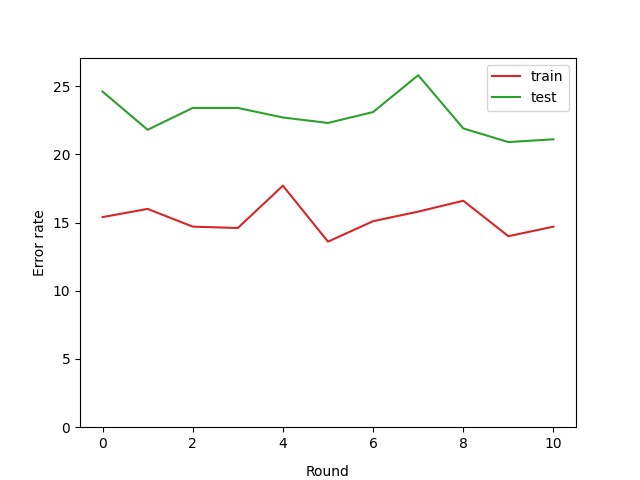
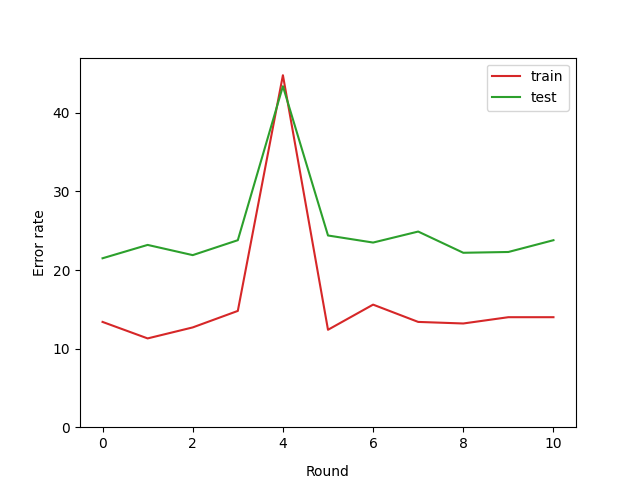
CNN_Aux

diff --git a/project1/models.py b/project1/models.py
@@ -38,33 +38,6 @@ class Baseline(Model):
         self.__init__(self.generate_data, self.epochs, self.batch_size, self.lr)
 
 
-# TODO make this work and compare
-# class Baseline2(Model):
-#     """ The Baseline model is composed only of fully-connected layers. """
-#
-#     def __init__(self, f_gen_data, nb_epochs=25, mini_batch_size=50, learning_rate=1e-3):
-#         super().__init__(f_gen_data, nb_epochs, mini_batch_size, learning_rate)
-#
-#         self.fc1 = nn.Linear(392, 200)
-#         self.bn1 = nn.BatchNorm1d(200)
-#         self.fc2 = nn.Linear(200, 100)
-#         self.bn2 = nn.BatchNorm1d(100)
-#         self.fc3 = nn.Linear(100, 10)
-#         self.fc4 = nn.Linear(10, 2)
-#
-#     def forward(self, x):
-#         x = F.max_pool1d(x, kernel_size=2)
-#         x = F.relu(self.bn1(self.fc1(x.view(x.size()[0], -1))))
-#         x = F.relu(self.bn2(self.fc2(x)))
-#
-#         x = F.relu(self.fc3(x))
-#         x = F.relu(self.fc4(x))
-#         return x
-#
-#     def reset(self):
-#         self.__init__(self.generate_data, self.epochs, self.batch_size, self.lr)
-
-
 class Auxiliary(Model):
     """ This model extends the baseline model by adding auxiliary loss """
 
@@ -121,29 +94,35 @@ class CNN(Model):
         # 5th layer : fully-connected
         self.fc1 = nn.Linear(144, 100)
 
-        # 6th layer : fully-connected
+        # 6th layer : fully-connected (digit classification)
         self.fc2 = nn.Linear(100, 10)
 
-        # 7th layer : fully-connected
+        # 7th layer : fully-connected (digit comparison)
         self.fc3 = nn.Linear(10, 2)
 
     def forward(self, x):
-        # print(sum(p.numel() for p in self.parameters() if p.requires_grad))
+        # layer 1
         x = F.max_pool2d(F.relu(self.bn1(self.conv1(x))), kernel_size=3)
         x = self.drop1(x)
 
+        # layer 2
         x = F.max_pool2d(F.relu(self.bn2(self.conv2(x))), kernel_size=2)
         x = self.drop2(x)
 
+        # layer 3
         x = F.max_pool2d(F.relu(self.bn3(self.conv3(x))), kernel_size=2)
         x = self.drop3(x)
 
+        # layer 4
         x = F.max_pool2d(F.relu(self.bn4(self.conv4(x))), kernel_size=2)
 
+        # layer 5
         x = F.relu(self.fc1(x.view(x.size()[0], -1)))
 
+        # layer 6 : digit classification
         x = F.relu(self.fc2(x))
 
+        # layer 7 : digit comparison
         x = self.fc3(x)
         return x
 
@@ -152,7 +131,7 @@ class CNN(Model):
 
 
 class CNN_Auxiliary(Model):
-    """ This model implements weight sharing """
+    """ This model implements weight sharing uses auxiliary loss """
 
     def __init__(self, f_gen_data, nb_epochs=25, mini_batch_size=100, learning_rate=1e-3):
         super().__init__(f_gen_data, nb_epochs, mini_batch_size, learning_rate)
@@ -160,54 +139,63 @@ class CNN_Auxiliary(Model):
         # tell parent class we use auxiliary loss
         self.useAuxiliary = True
 
-        self.conv1 = nn.Conv2d(1, 32, kernel_size=5)
-        self.bn1 = nn.BatchNorm2d(32)
+        # 1st layer : convolutional
+        self.conv1 = nn.Conv2d(1, 16, kernel_size=5, padding=2)
+        self.bn1 = nn.BatchNorm2d(16)
+        self.drop1 = nn.Dropout(0.2)
 
-        self.conv2 = nn.Conv2d(32, 16, kernel_size=5)
-        self.bn2 = nn.BatchNorm2d(16)
+        # 2nd layer : convolutional
+        self.conv2 = nn.Conv2d(16, 64, kernel_size=3, padding=3)
+        self.bn2 = nn.BatchNorm2d(64)
+        self.drop2 = nn.Dropout(0.1)
 
-        self.fc1 = nn.Linear(576, 200)
-        self.fc2 = nn.Linear(200, 10)
-        self.fc3 = nn.Linear(10, 2)
+        # 3rd layer : convolutional
+        self.conv3 = nn.Conv2d(64, 32, kernel_size=3, padding=3)
+        self.bn3 = nn.BatchNorm2d(32)
+        self.drop3 = nn.Dropout(0.5)
+
+        # 4th layer : convolutional
+        self.conv4 = nn.Conv2d(32, 16, kernel_size=5, padding=3)
+        self.bn4 = nn.BatchNorm2d(16)
+
+        # 5th layer : fully-connected
+        self.fc1 = nn.Linear(144, 100)
+
+        # 6th layer : fully-connected (digit classification)
+        self.fc2 = nn.Linear(100, 10)
+
+        # 7th layer : fully-connected (digit comparison)
+        self.fc3 = nn.Linear(20, 2)
 
     def forward(self, x):
-        x = self.conv1(x)
-        x = F.relu(self.bn1(x))
-        x = self.conv2(x)
-        x = F.relu(self.bn2(x))
-        x = x.view(x.size()[0], -1)
-        x = F.relu(self.fc1(x))
-        digit_class = self.fc2(x)
 
+        # layer 1
+        x = F.max_pool2d(F.relu(self.bn1(self.conv1(x))), kernel_size=3)
+        x = self.drop1(x)
+
+        # layer 2
+        x = F.max_pool2d(F.relu(self.bn2(self.conv2(x))), kernel_size=2)
+        x = self.drop2(x)
+
+        # layer 3
+        x = F.max_pool2d(F.relu(self.bn3(self.conv3(x))), kernel_size=2)
+        x = self.drop3(x)
+
+        # layer 4
+        x = F.max_pool2d(F.relu(self.bn4(self.conv4(x))), kernel_size=2)
+
+        # layer 5
+        x = F.relu(self.fc1(x.view(x.size()[0], -1)))
+
+        # layer 6 : digit classification
+        digit_class = F.relu(self.fc2(x))
         x = F.relu(digit_class)
-        x = F.relu(self.fc3(x))
-        final_class = x.view(x.size()[0] // 2, -1)
 
+        # layer 7 : digit comparison
+        # print(x.size())
+        # print(x.view(x.size()[0] // 2, -1).size())
+        final_class = self.fc3(x.view(x.size()[0] // 2, -1))
         return digit_class, final_class
-
-    def _train(self, train_input, train_target, train_classes):
-        criterion = nn.CrossEntropyLoss()
-        optimizer = optim.SGD(self.parameters(), self.lr)
-
-        losses = []
-
-        for e in range(self.epochs):
-            for b in range(0, train_input.size(0), self.batch_size):
-                digit_class, final_class = self(train_input.narrow(0, b, self.batch_size))
-
-                regLoss = criterion(final_class,
-                                    train_target.narrow(0, b // 2, self.batch_size // 2))
-
-                auxLoss = criterion(digit_class, train_classes.narrow(0, b, self.batch_size))
-                loss = regLoss + auxLoss
-
-                self.zero_grad()
-                loss.backward()
-                optimizer.step()
-
-                losses.append(loss.data.item())
-
-        return losses
 
     def reset(self):
         self.__init__(self.generate_data, self.epochs, self.batch_size, self.lr)

diff --git a/project1/modelclass.py b/project1/modelclass.py
@@ -4,7 +4,6 @@ import torch
 from torch import nn
 from torch.nn import functional as F
 from torch import optim
-from dlc_practical_prologue import *
 
 
 class Model(nn.Module):
@@ -70,8 +69,7 @@ class Model(nn.Module):
         train_input, train_target, train_classes, \
             test_input, test_target, test_classes = self.generate_data(self.sets_size)
 
-        train_input, test_input = standardize(train_input, test_input)
-
+        # one channel with the original channel's images in alternation
         if self.useAuxiliary:
             train_input = train_input.view(-1, 1, 14, 14)
             train_classes = train_classes.view(-1)
@@ -93,16 +91,21 @@ class Model(nn.Module):
 
         for e in range(self.epochs):
             for b in range(0, train_input.size(0), self.batch_size):
-
                 if self.useAuxiliary:
                     digit_class, final_class = self(train_input.narrow(0, b, self.batch_size))
-                    loss = criterion(
-                        final_class,
-                        train_target.narrow(0, b // 2, self.batch_size // 2)
-                    ) + criterion(
-                        digit_class,
-                        train_classes.narrow(0, b, self.batch_size)
-                    )
+                    # print(final_class.size(), " ", train_target.narrow(0, b // 2, self.batch_size // 2).size(), "\n")
+                    loss = \
+                        criterion(
+                            # loss for digit classification
+                            digit_class,
+                            train_classes.narrow(0, b, self.batch_size)
+                        ) + criterion(
+                            # loss for comparison
+                            final_class,
+                            # need to divide by two, because one iteration in the network does
+                            # two times less comparisons (single channel)
+                            train_target.narrow(0, b // 2, self.batch_size // 2)
+                        )
 
                 else:
                     final_class = self(train_input.narrow(0, b, self.batch_size))

diff --git a/project1/test.py b/project1/test.py
@@ -27,29 +27,33 @@ def train_and_test_rounds(model, nb_rounds, test_id):
         trains_err_rate, tests_err_rate, losses_ = model.train_and_test()
         trains_err_rates.append(trains_err_rate)
         tests_err_rates.append(tests_err_rate)
-        if i == 0:
-            losses += losses_
+        losses.append(losses_)
 
+    # loss_it = len(losses[0])
+    # loss_avg = []
+    # for i in range(loss_it):
+    #     loss_avg.append(mean(list(map(lambda ls: ls[i], losses))))
     return ModelResult(test_id, trains_err_rates, tests_err_rates, losses)
 
 
 def main():
-    number_rounds = 10
+    number_rounds = 1
 
-    model1 = Baseline(generate_pair_sets)
-    mRes1 = train_and_test_rounds(model1, number_rounds, "Baseline")
+    # model1 = Baseline(generate_pair_sets)
+    # mRes1 = train_and_test_rounds(model1, number_rounds, "Baseline")
 
-    model2 = Auxiliary(generate_pair_sets)
-    mRes2 = train_and_test_rounds(model2, number_rounds, "Auxiliary")
+    # model2 = Auxiliary(generate_pair_sets)
+    # mRes2 = train_and_test_rounds(model2, number_rounds, "Auxiliary")
 
-    model3 = CNN(generate_pair_sets)
-    mRes3 = train_and_test_rounds(model3, number_rounds, "CNN")
+    # model3 = CNN(generate_pair_sets)
+    # mRes3 = train_and_test_rounds(model3, number_rounds, "CNN")
 
     model4 = CNN_Auxiliary(generate_pair_sets)
     mRes4 = train_and_test_rounds(model4, number_rounds, "CNN_Aux")
 
-    plot_model_result(mRes3, number_rounds)
-    plot_models_results_comparison([mRes1, mRes2, mRes3, mRes4], number_rounds, True)
+    plot_model_result(mRes4, number_rounds)
+    plot_models_results_comparison([mRes4], number_rounds, True)
+    # plot_models_results_comparison([mRes1, mRes2, mRes3, mRes4], number_rounds, True)
 
 
 if __name__ == '__main__':

diff --git a/project1/plot.py b/project1/plot.py
@@ -4,6 +4,8 @@ import matplotlib.pyplot as plt
 
 
 class ModelResult:
+    """ Encapsulates the the different error rates and losses of a model """
+
     def __init__(self, result_id, train_err_rates, test_err_rates, losses):
         self.id = result_id
         self.train_err_rates = train_err_rates
